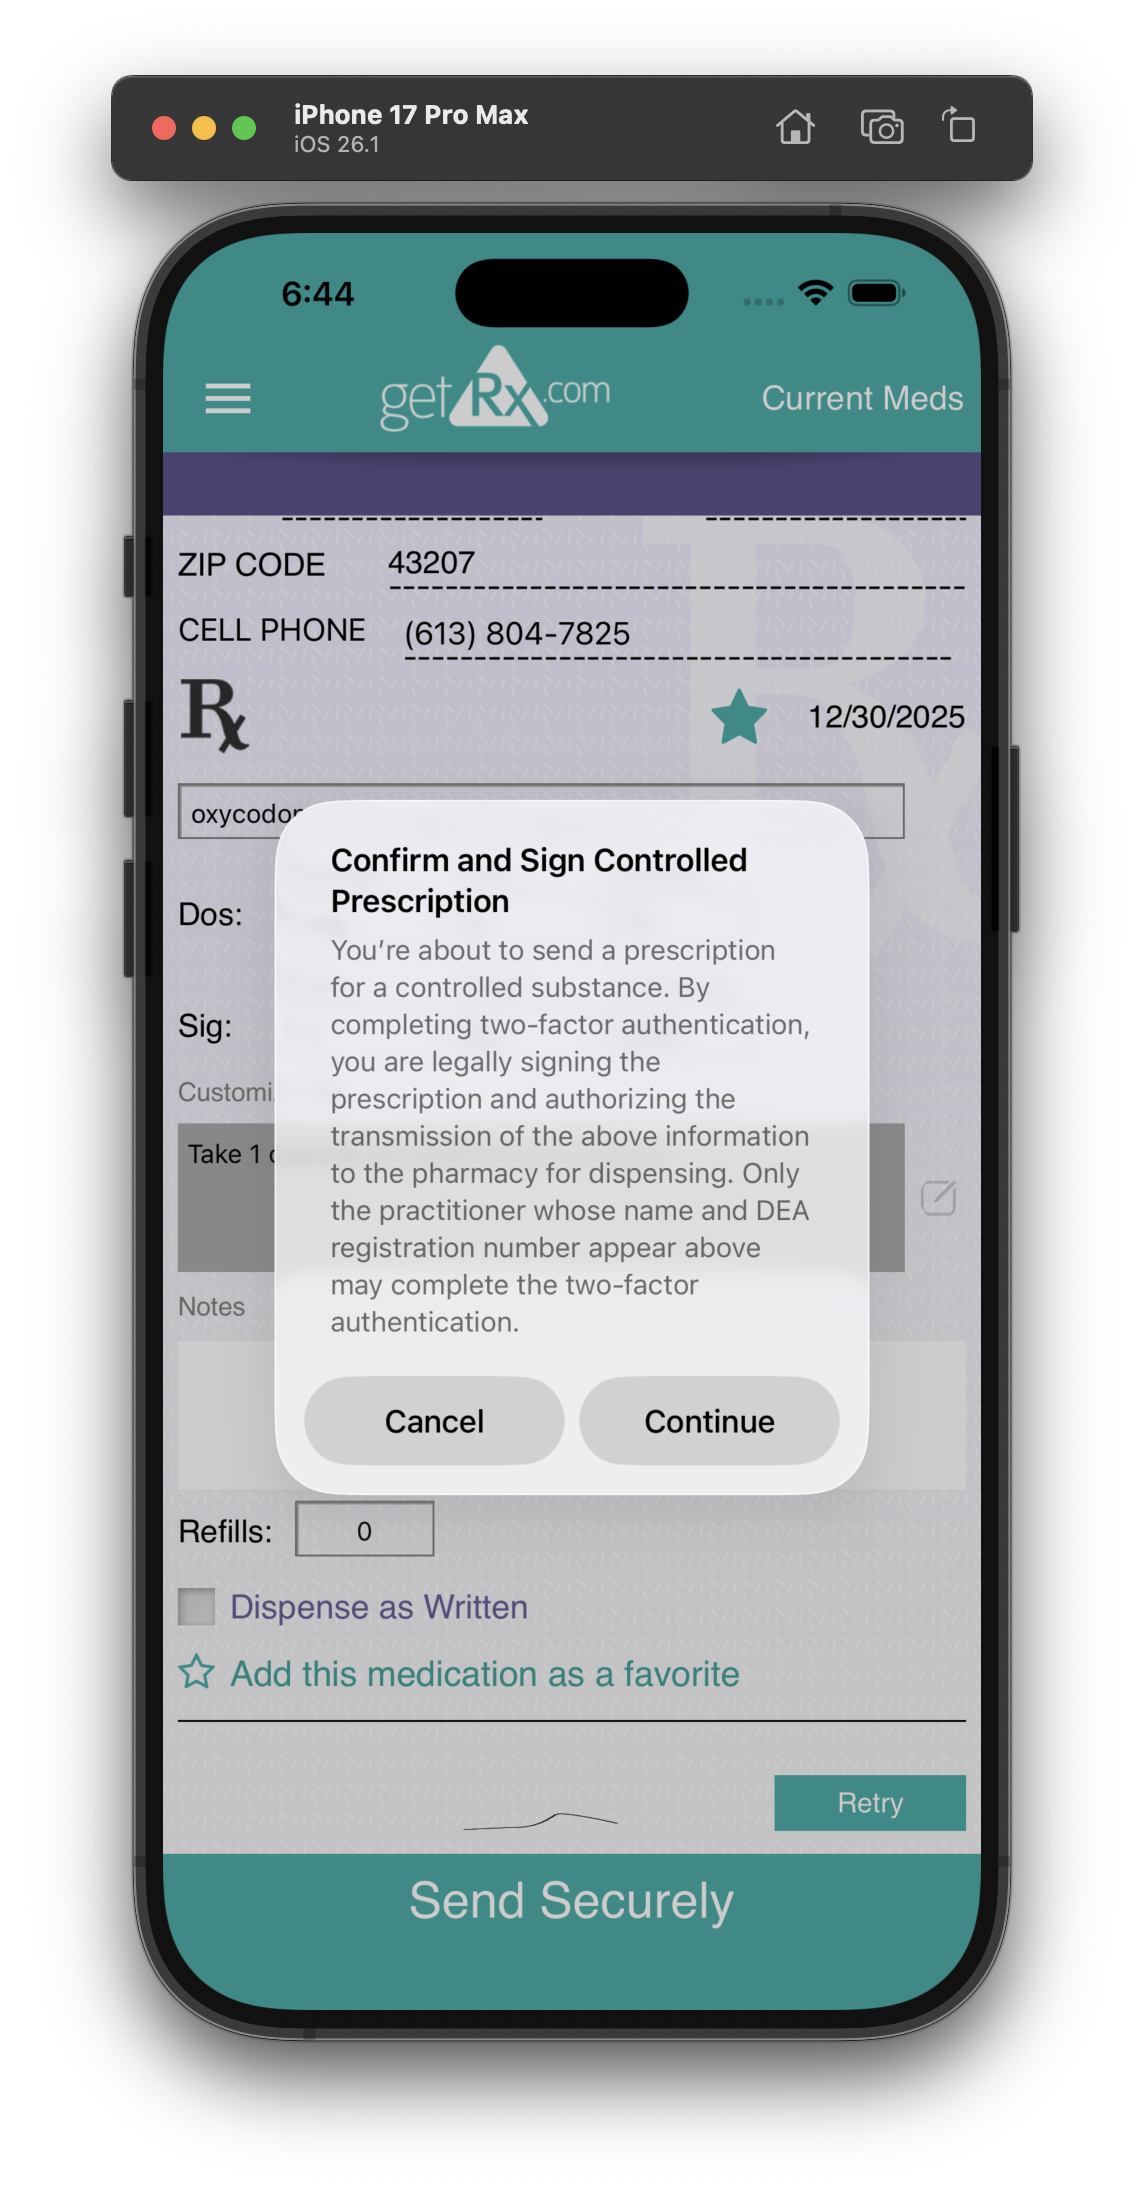
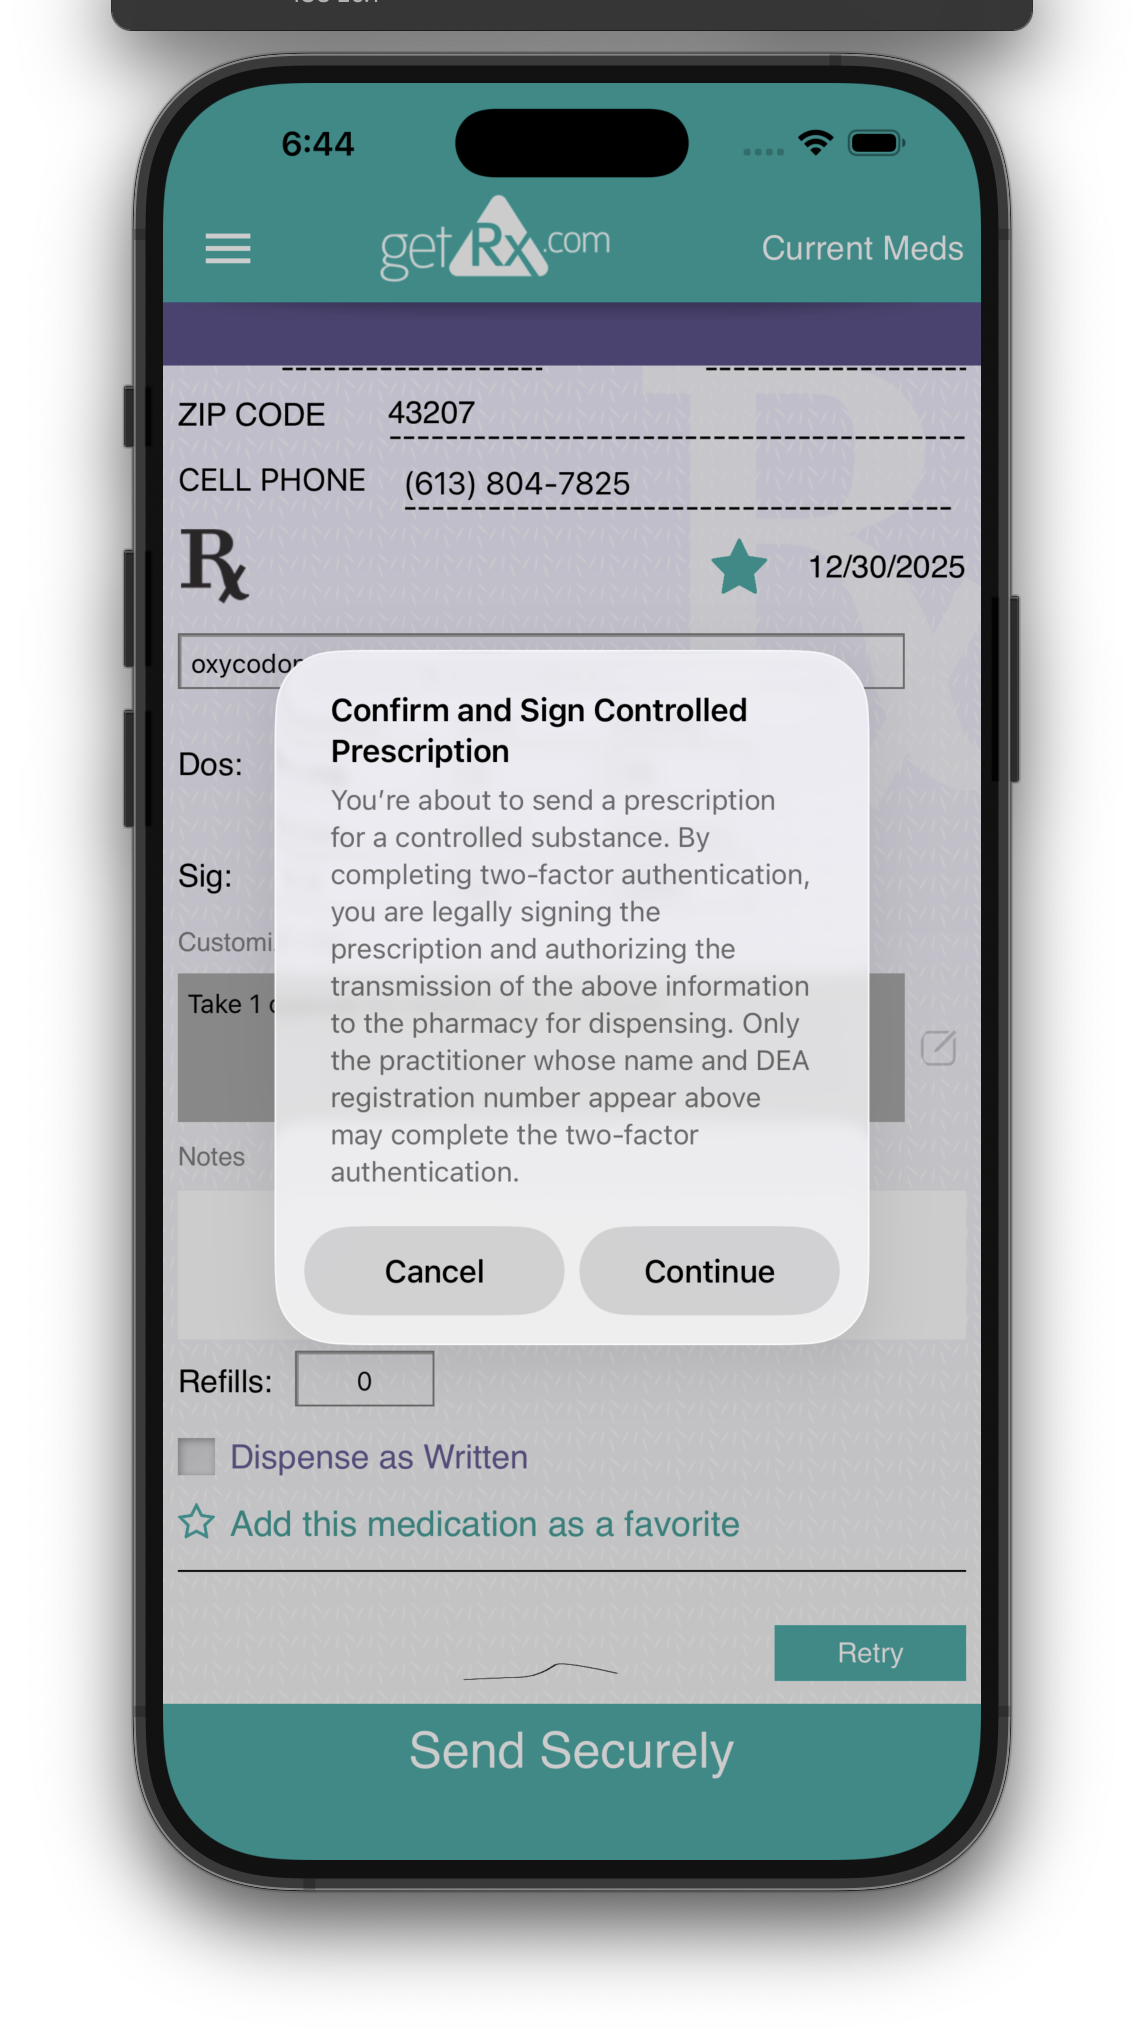
Real pharmacy screen in hero, strip simulator chrome, ID verification policy
- Replace CSS-built "Find a Pharmacy" mock in the hero with the real
  pharmacy-select EPCS map screen (script-pharmacy-select-epcs-map.png)
- Crop the "iPhone 17 Pro Max / iOS 26.1" simulator label off the top of
  every phone screenshot (profile, patient list, confirm-sign, pharmacy)
  so only the actual app UI shows; flip-stage aspect ratio updated
- Walkthrough heading reworded — the person in the video is not a
  prescriber, so "Watch a real prescriber set up and send" is replaced
  with "A quick tour of getRx"
- Add Identity Verification Policy section (#identity-verification) with
  the full Exostar / DEA Lookup / DigiCert / MFA / audit policy text
- Footer Account column now links to ID Verification and shows Privacy /
  Terms as "(soon)" placeholders pending legal sign-off

diff --git a/index.html b/index.html
@@ -206,6 +206,7 @@ body.has-pointer #cursor-ring{display:block}
 @keyframes float{0%,100%{transform:translateY(0) rotate(-1deg)}50%{transform:translateY(-14px) rotate(1deg)}}
 .phone-shell{background:linear-gradient(160deg,rgba(12,30,55,.96),rgba(5,14,26,.98));border-radius:48px;border:1.5px solid rgba(59,184,175,.22);padding:13px;box-shadow:0 0 0 1px rgba(255,255,255,.04),0 60px 120px rgba(0,0,0,.8),0 0 80px rgba(59,184,175,.1),inset 0 1px 0 rgba(255,255,255,.06)}
 .phone-screen{background:#F2F2F7;border-radius:36px;overflow:hidden;display:flex;flex-direction:column}
+.phone-img{display:block;width:100%;height:auto;aspect-ratio:1144/2042;object-fit:cover;object-position:center top;border-radius:36px;background:#000}
 /* pharmacy list screen */
 .pscreen-header{background:var(--teal-deep);padding:14px 16px 12px;display:flex;align-items:center;gap:8px}
 .pscreen-back{color:#fff;opacity:.85;display:flex;align-items:center;flex-shrink:0}
@@ -343,7 +344,7 @@ section{position:relative;z-index:1}
 .rx-reset:hover{background:rgba(59,184,175,.07);border-color:rgba(59,184,175,.45)}
 
 /* PAGE-FLIP CAROUSEL — lookbook-style 3D flip through real app screens (21st.dev inspired) */
-.flip-stage{position:relative;perspective:2000px;perspective-origin:50% 50%;width:100%;max-width:340px;margin:0 auto;aspect-ratio:1144/2192;user-select:none}
+.flip-stage{position:relative;perspective:2000px;perspective-origin:50% 50%;width:100%;max-width:340px;margin:0 auto;aspect-ratio:1144/2042;user-select:none}
 .flip-book{position:relative;width:100%;height:100%;transform-style:preserve-3d}
 .flip-page{position:absolute;inset:0;border-radius:34px;overflow:hidden;background:linear-gradient(160deg,rgba(12,30,55,.96),rgba(5,14,26,.98));border:1.5px solid rgba(59,184,175,.22);box-shadow:0 0 0 1px rgba(255,255,255,.04),0 40px 100px rgba(0,0,0,.7),0 0 60px rgba(59,184,175,.08);transform-origin:left center;transition:transform 1.4s cubic-bezier(.6,.04,.3,1),box-shadow 1.4s ease;backface-visibility:hidden;-webkit-backface-visibility:hidden;will-change:transform}
 .flip-page[data-i="0"]{z-index:4}
@@ -550,6 +551,18 @@ footer{border-top:1px solid rgba(59,184,175,.08);padding:64px 0 32px}
 .signup-head p{color:var(--muted2);font-size:14.5px;margin:0}
 @media(max-width:768px){.contact-grid{grid-template-columns:1fr}.form-row{grid-template-columns:1fr}}
 
+/* POLICY (legal long-form) */
+.policy-section{padding:90px 0}
+.policy-card{max-width:820px;margin:0 auto;background:rgba(255,255,255,.03);border:1px solid rgba(59,184,175,.18);border-radius:18px;padding:40px 44px}
+.policy-card .section-eye{margin-bottom:14px}
+.policy-card h2{font-family:var(--head);font-size:30px;font-weight:800;color:var(--white);letter-spacing:-.02em;margin:0 0 8px}
+.policy-card h3{font-family:var(--head);font-size:17px;font-weight:700;color:var(--white);letter-spacing:-.01em;margin:24px 0 8px}
+.policy-meta{font-family:var(--mono);font-size:11px;color:var(--muted);letter-spacing:.08em;text-transform:uppercase;margin-bottom:24px}
+.policy-card p{color:var(--muted2);font-size:14.5px;line-height:1.75;margin:0 0 14px}
+.policy-card p:last-child{margin-bottom:0}
+.policy-card strong{color:var(--white);font-weight:700}
+@media(max-width:768px){.policy-card{padding:28px 22px}.policy-card h2{font-size:24px}}
+
 /* PRESS */
 .press-section{padding:80px 0;text-align:center}
 .press-card{max-width:580px;margin:0 auto;padding:48px 32px;background:rgba(255,255,255,.03);border:1px dashed rgba(59,184,175,.25);border-radius:18px}
@@ -743,44 +756,7 @@ footer{border-top:1px solid rgba(59,184,175,.08);padding:64px 0 32px}
         <div class="phone-halo-2"></div>
         <div class="phone-wrap">
           <div class="phone-shell">
-            <div class="phone-screen">
-              <div class="pscreen-header">
-                <div class="pscreen-back"><i data-lucide="chevron-left" style="width:13px;height:13px"></i></div>
-                <span class="pscreen-header-title">Find a Pharmacy</span>
-                <div class="pscreen-header-dots"><span></span><span></span><span></span></div>
-              </div>
-              <div class="pscreen-search">
-                <i data-lucide="search" style="width:10px;height:10px;color:#A0AEC0"></i>
-                <span class="pscreen-search-txt">Search by name or zip...</span>
-              </div>
-              <div class="pscreen-result-count">3 PHARMACIES NEARBY</div>
-              <div class="pscreen-pharm-list">
-                <div class="pscreen-pharm-card">
-                  <div class="pscreen-pharm-info">
-                    <div class="pscreen-pharm-name">CVS Pharmacy #4821</div>
-                    <div class="pscreen-pharm-addr">123 Main St · 0.3 mi</div>
-                    <div class="pscreen-pharm-hours">Open until 9:00 PM</div>
-                  </div>
-                  <button class="pscreen-fav-btn">+ Favorite</button>
-                </div>
-                <div class="pscreen-pharm-card">
-                  <div class="pscreen-pharm-info">
-                    <div class="pscreen-pharm-name">Walgreens #2244</div>
-                    <div class="pscreen-pharm-addr">456 Oak Ave · 0.7 mi</div>
-                    <div class="pscreen-pharm-hours">Open 24 Hours</div>
-                  </div>
-                  <button class="pscreen-fav-btn">+ Favorite</button>
-                </div>
-                <div class="pscreen-pharm-card">
-                  <div class="pscreen-pharm-info">
-                    <div class="pscreen-pharm-name">Rite Aid #0931</div>
-                    <div class="pscreen-pharm-addr">789 Elm Blvd · 1.1 mi</div>
-                    <div class="pscreen-pharm-hours">Open until 6:00 PM</div>
-                  </div>
-                  <button class="pscreen-fav-btn">+ Favorite</button>
-                </div>
-              </div>
-            </div>
+            <img class="phone-img" src="assets/screens/pharmacy-select.png" alt="getRx — pick a pharmacy from the map for an EPCS prescription" loading="eager">
           </div>
           <div class="ui-badge badge-top">
             <div class="badge-icon"><i data-lucide="check-circle" style="width:15px;height:15px"></i></div>
@@ -987,7 +963,7 @@ footer{border-top:1px solid rgba(59,184,175,.08);padding:64px 0 32px}
   <div class="container">
     <div class="video-header reveal">
       <div class="section-eye">Walkthrough</div>
-      <h2 class="section-head">Watch a real prescriber <span class="grad-text">set up and send.</span></h2>
+      <h2 class="section-head">A quick tour of <span class="grad-text">getRx.</span></h2>
       <p class="section-sub">A short walkthrough of onboarding, writing a controlled prescription, and sending it.</p>
     </div>
     <div class="video-frame reveal reveal-d1">
@@ -1286,6 +1262,29 @@ footer{border-top:1px solid rgba(59,184,175,.08);padding:64px 0 32px}
 
 <div class="section-divider"></div>
 
+<!-- ID VERIFICATION POLICY -->
+<section class="policy-section" id="identity-verification" style="scroll-margin-top:96px">
+  <div class="container">
+    <div class="policy-card reveal">
+      <div class="section-eye">Compliance</div>
+      <h2>Identity Verification for Prescribers</h2>
+      <div class="policy-meta">Policy · Last updated April 2026</div>
+      <p>getRx (the <strong>"Company"</strong>) is committed to protecting the integrity and security of electronically transmitted, digital pharmaceutical prescriptions, including the continuous vetting of the identity of Prescribers who use the Company's software applications.</p>
+      <p>The Company's proprietary software is integrated through two separate user platforms. One platform, <strong>getRx for Patients</strong>, is for use by patients to communicate with their Prescriber and, at the patient's option, to direct prescriptions that have been entered into the software by their Prescriber to a pharmacy of the patient's choosing. The other platform, <strong>getRx for Prescribers</strong>, is for use by licensed medical professionals with DEA prescribing authority. These platforms work seamlessly together, electronically transmitting encrypted information between the platforms, servers, and pharmacies.</p>
+      <h3>Prescriber identity verification</h3>
+      <p>For any Prescriber to access getRx for Prescribers, the Prescriber must create a profile including name, address, phone number, and DEA registration number. The Prescriber must also complete a third-party identity verification process integrated into the getRx for Prescribers software application. The third-party provider is <strong>Exostar Identity Verification</strong>. Exostar compares user information to regulated data sources, authenticates government-issued identification, and uses liveness detection to match the face of a living human viewed through a user device camera to make sure that the user is actually the person the user claims to be. Exostar also asks the user to answer questions regarding personal history and verifies those answers.</p>
+      <h3>DEA registration cross-reference</h3>
+      <p>Once a Prescriber is verified through Exostar, the getRx for Prescribers application then uses another third-party service provider called <strong>DEA Lookup</strong> to cross-reference the user's information, which has been verified by Exostar, and the user's DEA registration number with an active and valid DEA license bearing the user's Exostar-verified name and identifying information. Once DEA Lookup confirms that the user's information corresponds to an active and valid DEA registration number, the getRx for Prescribers application creates a user profile and issues it a digital certificate provided by third-party provider <strong>DigiCert</strong>. After receiving a Digital Certificate, the Prescriber's credentials remain authenticated for two years, at which point the Prescriber's credentials must be authenticated again.</p>
+      <h3>Multi-factor authentication</h3>
+      <p>Each user log-in to the getRx for Prescribers is confirmed through multi-factor authentication.</p>
+      <h3>Periodic audits</h3>
+      <p>Random periodic audits are performed manually to detect any prescriber activity that appears to be fraudulent. If potentially fraudulent activity is detected, the Company will make efforts to verify the Prescriber's identity. If the Prescriber's identity cannot be manually verified within a reasonable period of time, then the Prescriber's access to getRx for Prescribers is immediately terminated.</p>
+    </div>
+  </div>
+</section>
+
+<div class="section-divider"></div>
+
 <!-- PRESS -->
 <section class="press-section" id="press" style="scroll-margin-top:96px">
   <div class="container">
@@ -1360,8 +1359,9 @@ footer{border-top:1px solid rgba(59,184,175,.08);padding:64px 0 32px}
       <div class="footer-h">Account</div>
       <a href="https://www.getrx.com/prescribers/new">Sign In</a>
       <a href="#signup">Sign Up</a>
-      <a href="#privacy">Privacy</a>
-      <a href="#terms">Terms</a>
+      <a href="#identity-verification">ID Verification</a>
+      <a href="#privacy" aria-disabled="true">Privacy <span style="opacity:.5">(soon)</span></a>
+      <a href="#terms" aria-disabled="true">Terms <span style="opacity:.5">(soon)</span></a>
     </div>
   </div>
   <div class="footer-bottom">
